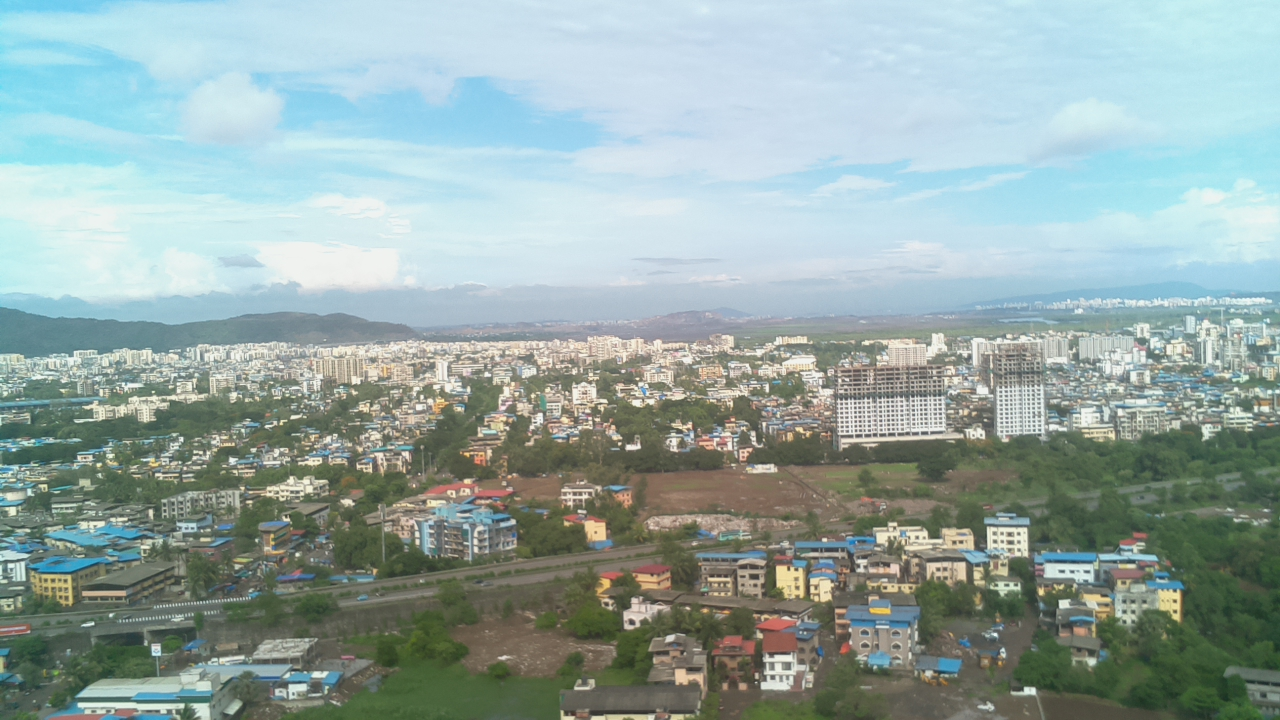
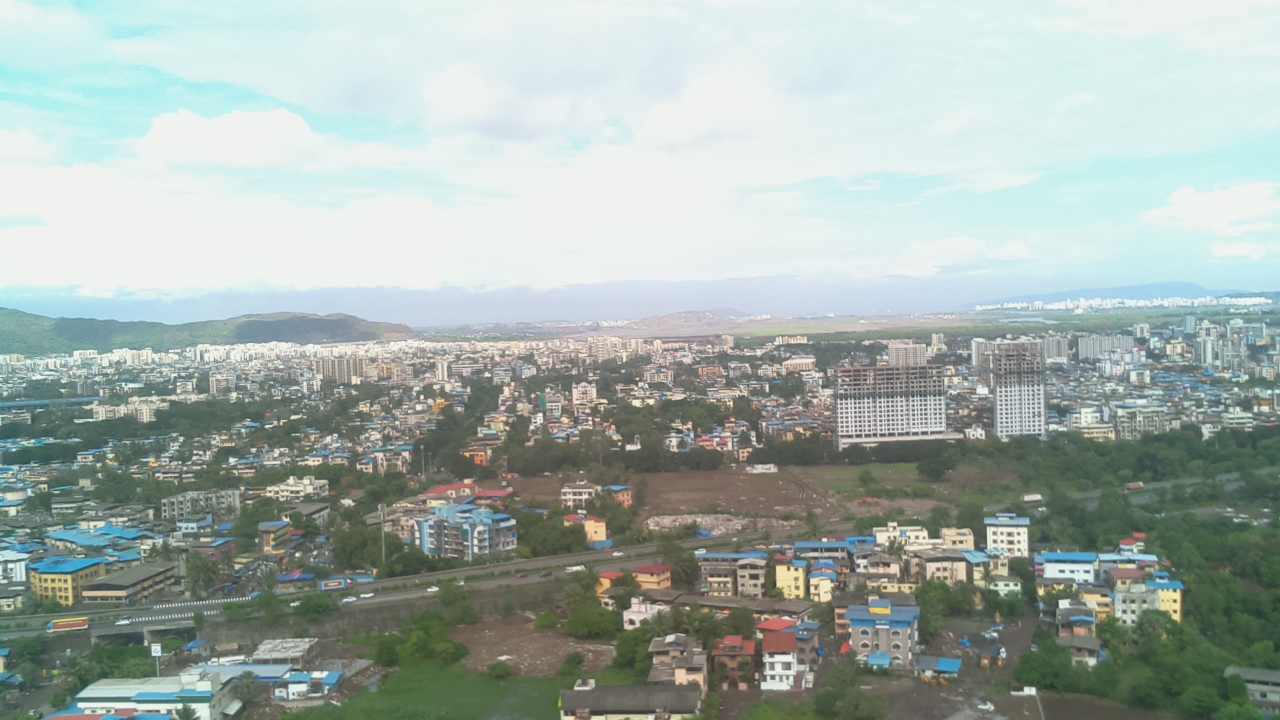
Image update

diff --git a/src/index.html b/src/index.html
@@ -11,7 +11,7 @@
 <body style="background-color:powderblue;">
   <main>
 <center><h2><p style="color:blue;">Rajesh Tota's Cloud based Serverless Website</p></h2></center>
-<center><p style="color:red;">Project: Alexa => Raspberry Pi => Azure Cloud Static-Web-App</p>
+<center><p style="color:red;">Project: Alexa => Raspberry Pi + Camera => Azure Cloud Static-Web-App</p>
 <p><span id='date-time'></span>. IST</p></center>
 <script>
 document.getElementById("date-time").innerHTML = formatAMPM();
@@ -26,7 +26,7 @@ var d = new Date(),
 return days[d.getDay()]+' '+months[d.getMonth()]+' '+d.getDate()+' '+d.getFullYear()+' '+hours+':'+minutes+ampm;
 }
 </script>
-<img src="photo.jpg" alt="Beautiful Sky" width="740" height="480">
+<center><img src="photo.jpg" alt="Beautiful Sky" width="740" height="480"></center>
   </main>
 </body>
 
